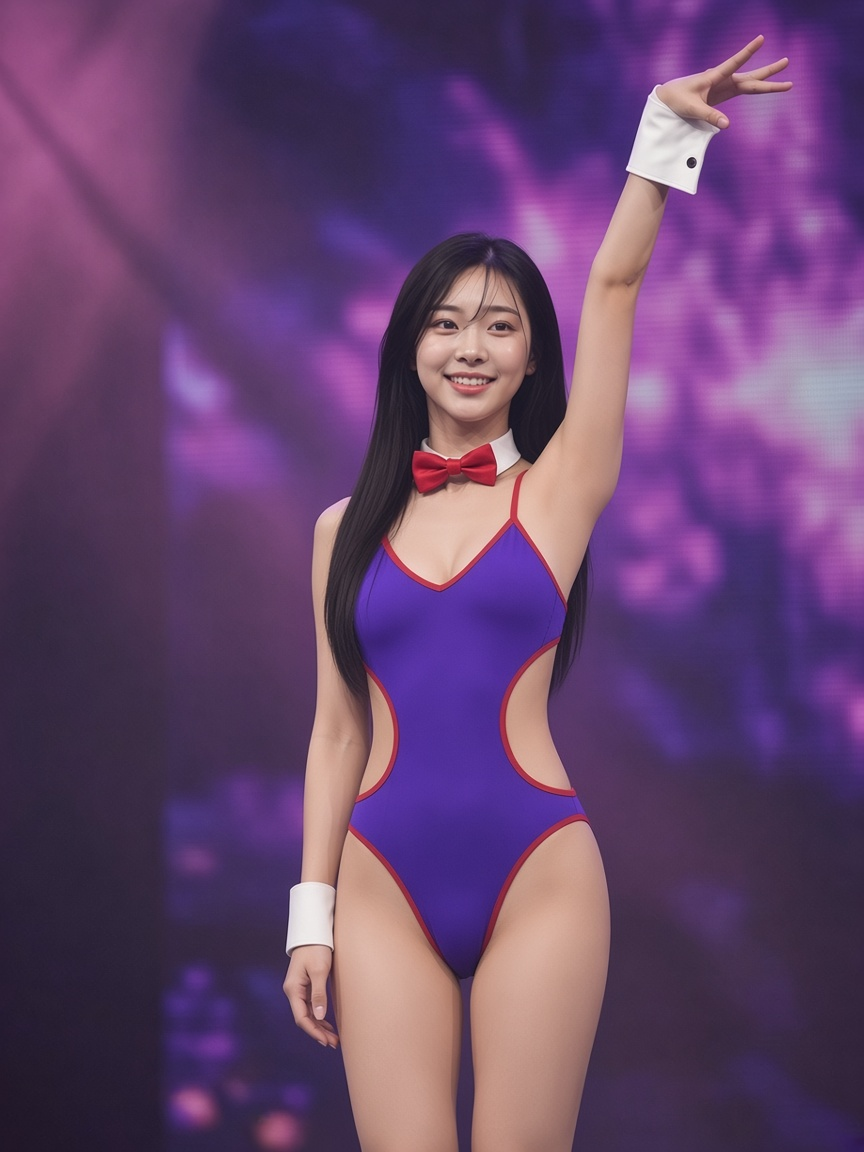
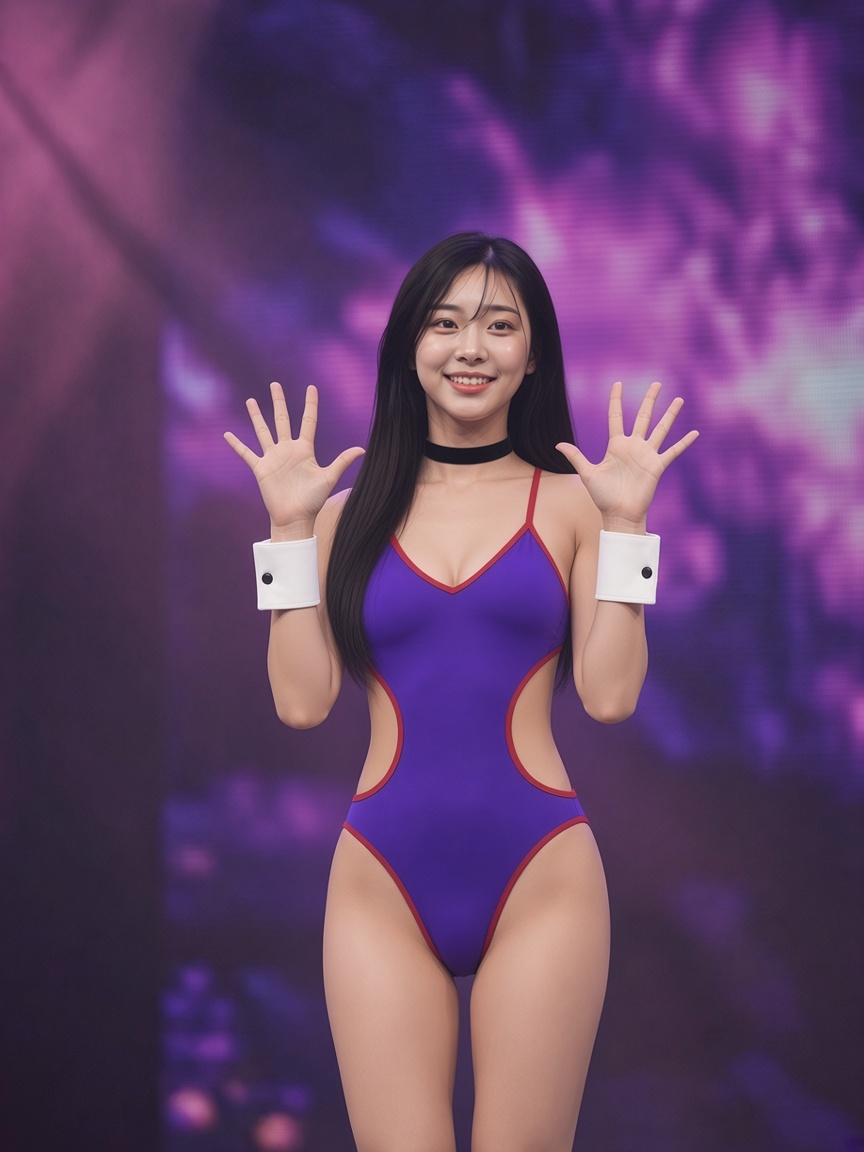
小寶貝：紫衣加油女孩改為正面張開手掌與絨布頸圈 (#882)
把 home-g.jpg 換成使用者核定的正面加油動作（雙手在胸前張開），紅領結改為黑色絨布頸圈。
規格維持 864×1152。重看 g 的泡泡錨點後，左上位置在 380 與 340 視窗都沒有蓋到臉或手，數值不改，只更新註解。

Closes #881

diff --git a/client/src/main/java/com/example/ui/hud/HomeBubbleAnchor.java b/client/src/main/java/com/example/ui/hud/HomeBubbleAnchor.java
@@ -67,7 +67,7 @@ public final class HomeBubbleAnchor {
         BY_ID.put("d", new Spec(0.56, 0.26, 0.40, 0.13));
         BY_ID.put("e", new Spec(0.44, 0.27, 0.30, 0.14));
         BY_ID.put("f", new Spec(0.51, 0.25, 0.37, 0.12));
-        // g 正面中景：臉在水平中央、上方三分之一；泡泡放左上避開臉與右手。
+        // g 正面張開雙手加油：臉在水平中央、上方三分之一；泡泡放左上避開臉與雙手。
         BY_ID.put("g", new Spec(0.50, 0.22, 0.22, 0.11, 0.32, 0.07, 0.36, 0.28));
         // h 側身舞蹈中景：臉略偏右；泡泡放左上避開臉與舉手。
         BY_ID.put("h", new Spec(0.56, 0.20, 0.22, 0.10, 0.42, 0.07, 0.36, 0.28));
